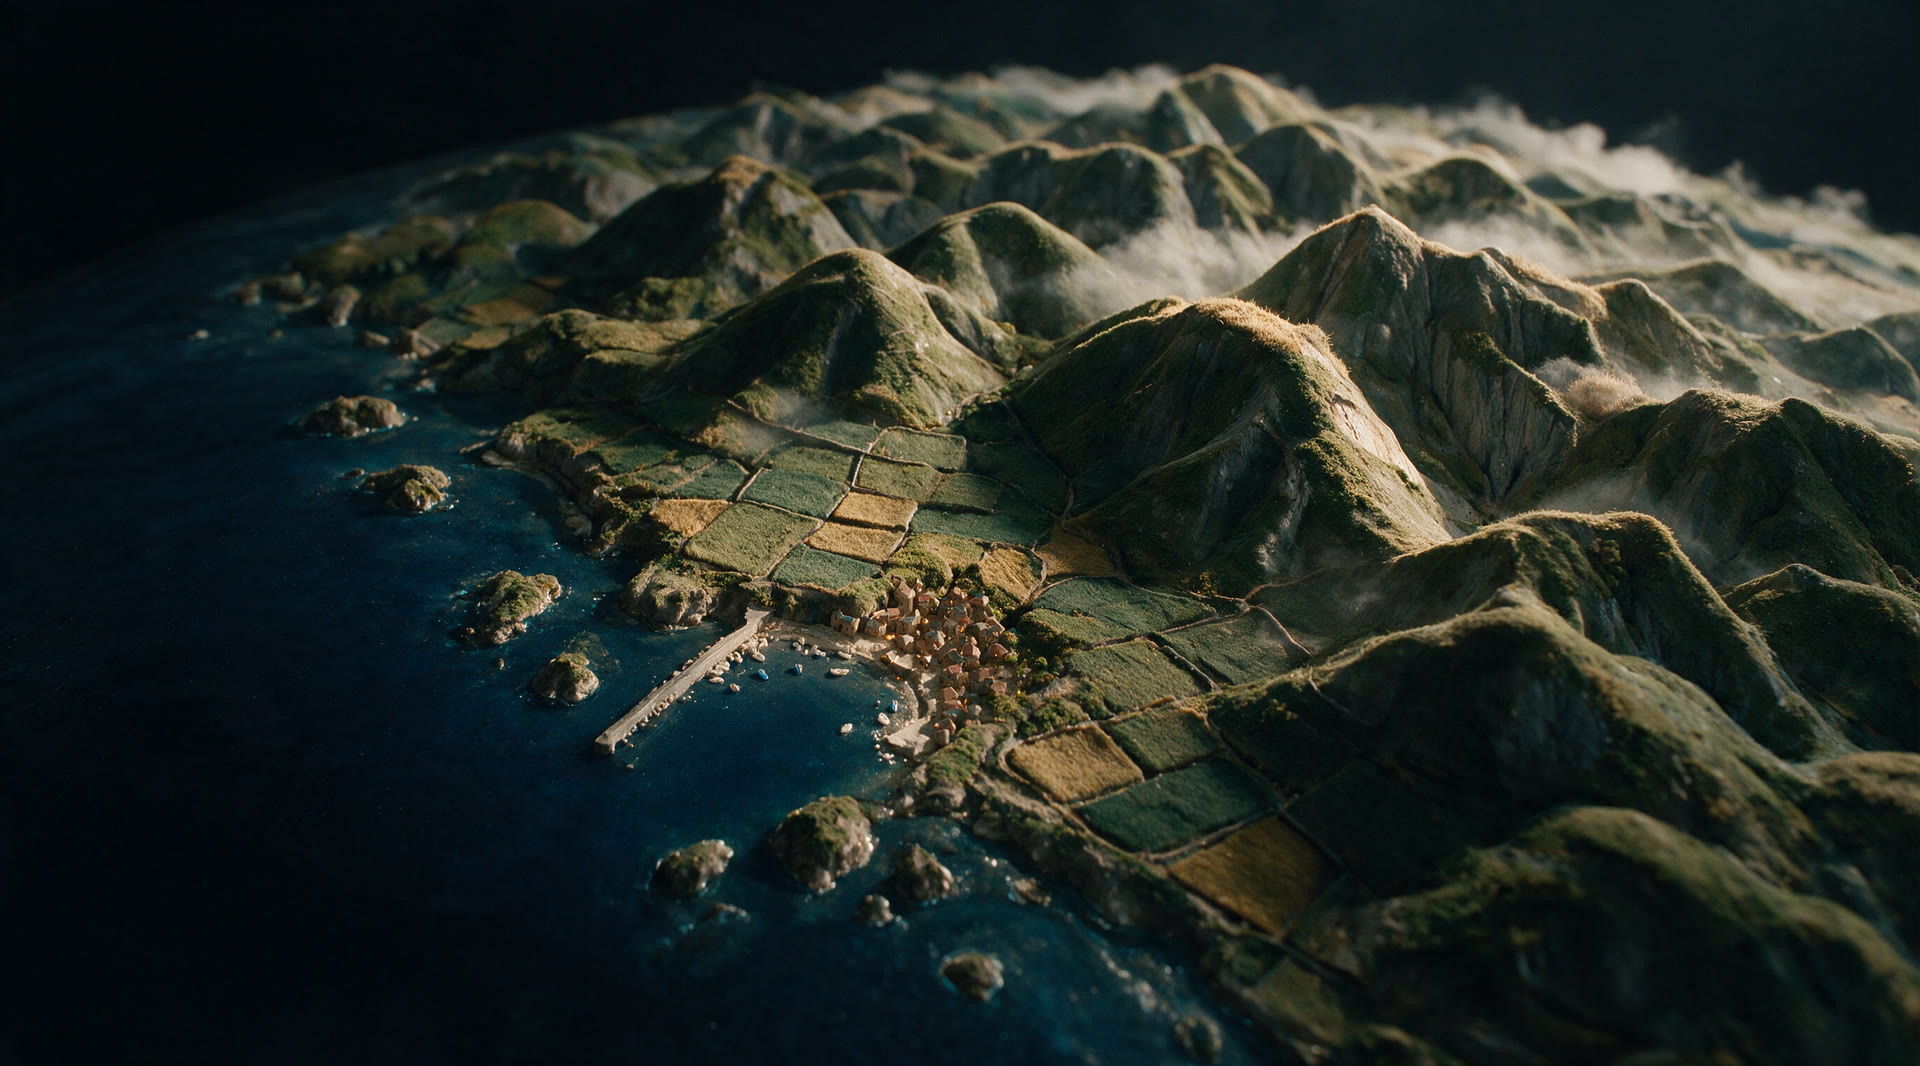
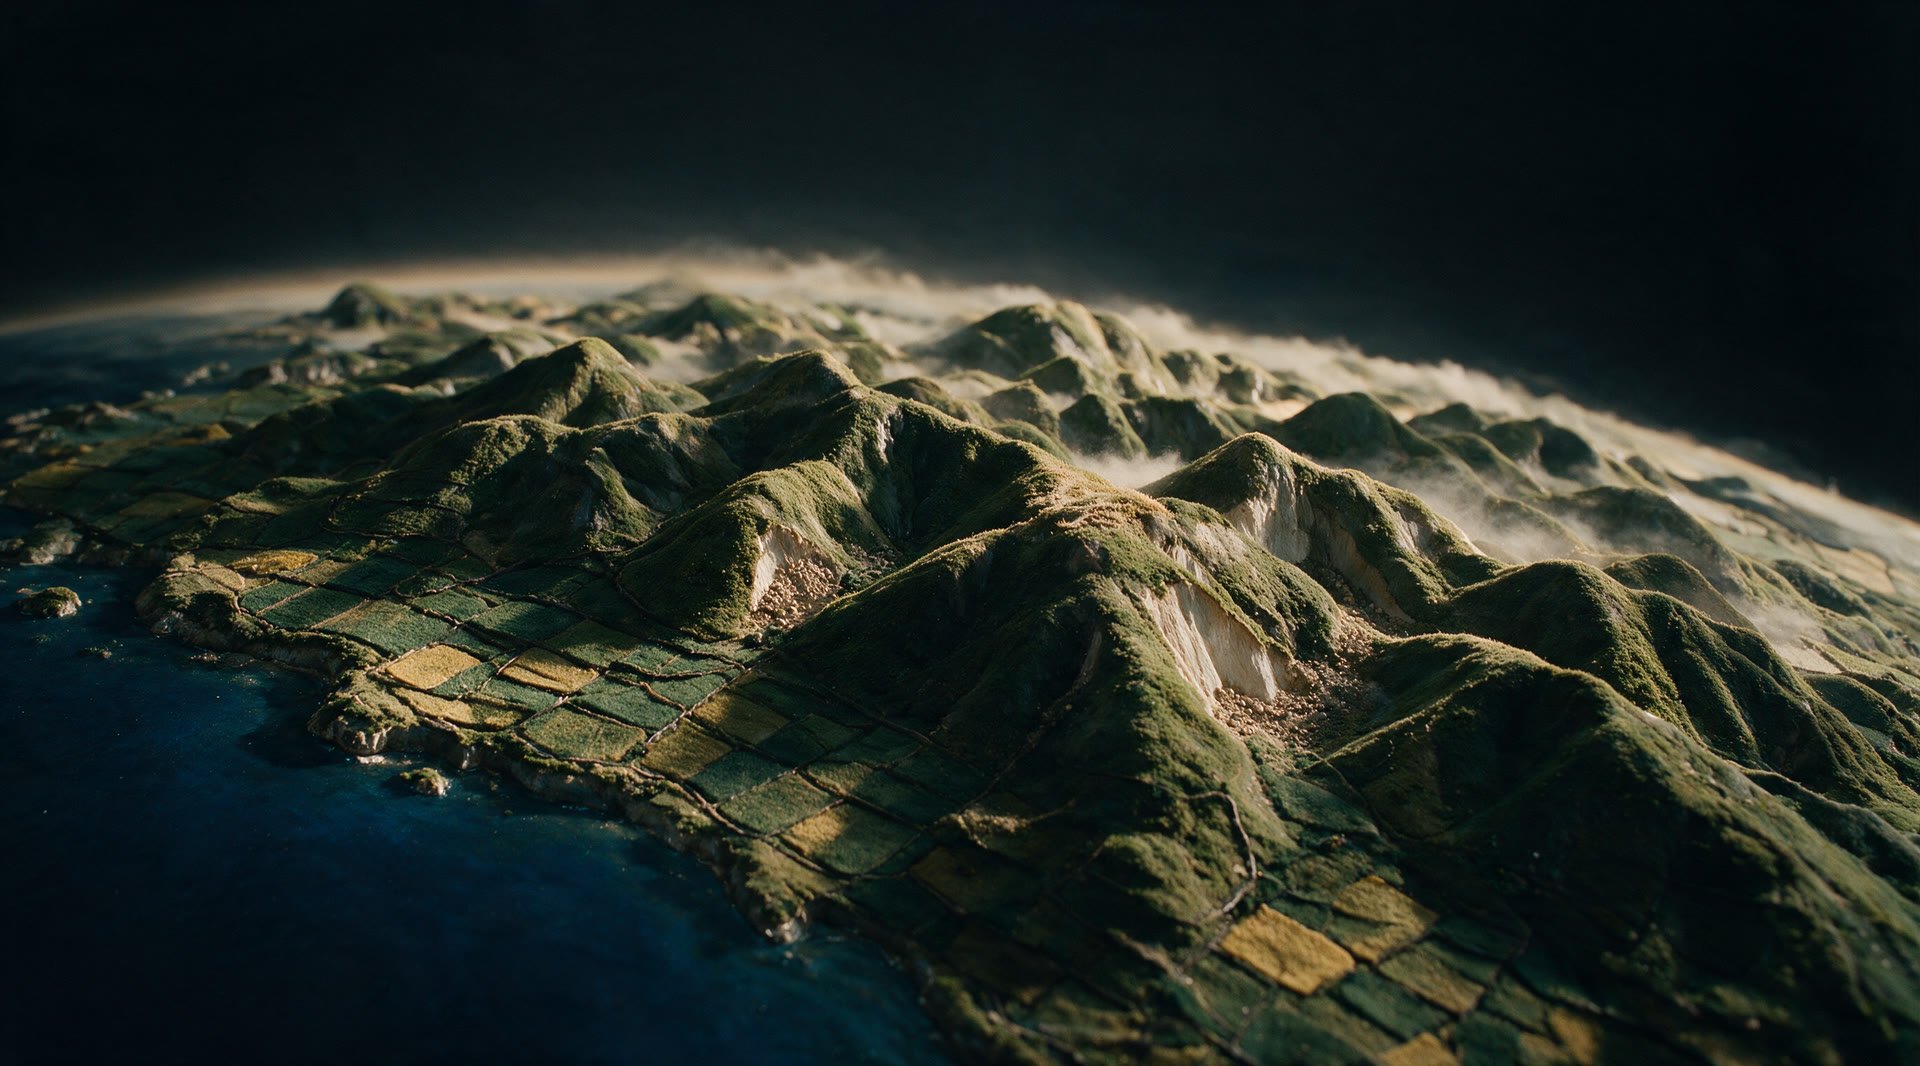
feat(kie): 앵커 rev.3h — A09 리롤, A08b 와 같은 지형을 북동 이동·하강 (마을·항만 제거, 1장, 14.5 크레딧)
클라이언트 "이동하는 과정에서 지형 지물이 너무 많이 바뀌는데. 지형 지물은 최대한 유지한채 산쪽으로 이동하면 좋을 것 같은데"
— 구 A09 가 다른 장소(자체 항만·마을)라 leg 8b 에서 모핑. 신 A09 = A08b 우상의 이끼 능선·펠트 필지가 프레임을
채우고 같은 해안선이 좌하로 이어지며, 급경사지 절개면으로 A10 과 연결. ref A08b + A09.v3a(재질). 구 A09 는 A09.v3a.*.

Claude-Session: https://claude.ai/code/session_01WM9MJXSpdbCfwY8af3obk9

diff --git a/landxi/proto/film/anchors.html b/landxi/proto/film/anchors.html
@@ -1,4 +1,4 @@
 <!doctype html><html lang="ko"><head><meta charset="utf-8"><title>앵커 스틸 v3</title>
 <link rel="stylesheet" href="../fonts-system.css"><style>body{margin:0;background:#010102;color:#ccc;font:14px/1.5 Pretendard,system-ui,sans-serif}h1{font-family:Paperlogy,Pretendard,sans-serif;font-weight:700;font-size:18px;letter-spacing:.06em;padding:20px 24px;margin:0;border-bottom:1px solid #272727}
 .g{display:grid;grid-template-columns:repeat(auto-fill,minmax(440px,1fr));gap:24px;padding:24px}figure{margin:0}img{width:100%;display:block;border:1px solid #272727}figcaption{padding:8px 2px;font-size:14px;color:#8a8a8a;letter-spacing:.04em}</style></head>
-<body><h1>앵커 스틸 · 14장</h1><div class="g"><figure><img src="../../assets/proto/film/legs/anchors-v3/A01.jpg" loading="lazy"><figcaption>A01 모형 지구본 — 작업대 직치, 링 상단 위성</figcaption></figure><figure><img src="../../assets/proto/film/legs/anchors-v3/A02.jpg" loading="lazy"><figcaption>A02 고궤도·한반도 — 지구본 + 구름만, 항공기 없음 (rev.3)</figcaption></figure><figure><img src="../../assets/proto/film/legs/anchors-v3/A03.jpg" loading="lazy"><figcaption>A03 구름 천장 — 드론 하단 1/3 공중 부양·소, 항공기 우상단 (rev.3c, 1회 재생성)</figcaption></figure><figure><img src="../../assets/proto/film/legs/anchors-v3/A04.jpg" loading="lazy"><figcaption>A04 능선 너머 남원 분지 — 소품 0 (rev.3)</figcaption></figure><figure><img src="../../assets/proto/film/legs/anchors-v3/A05.jpg" loading="lazy"><figcaption>A05 남원 평야·농지이용 — 프롭 0, 회색 판 제거 (rev.3d, 1회 리롤 · 좌측 도로 환각)</figcaption></figure><figure><img src="../../assets/proto/film/legs/anchors-v3/A06.jpg" loading="lazy"><figcaption>A06 금지면 비닐하우스 — 프롭 0, 구름·좌측 구조물 제거 (rev.3e, 1회 리롤)</figcaption></figure><figure><img src="../../assets/proto/film/legs/anchors-v3/A06b.jpg" loading="lazy"><figcaption>A06b 남원 상공 고고도 — 같은 온실 군락이 중앙-좌에 그대로, 카메라만 상승·곡률·헤이즈 (rev.3f, 1회 리롤)</figcaption></figure><figure><img src="../../assets/proto/film/legs/anchors-v3/A07.jpg" loading="lazy"><figcaption>A07 지구본 이동→여수 — 농지가 해안까지 완만히 내려와 마을과 같은 높이, 고원·절벽 없음 (rev.3e, 1회 리롤)</figcaption></figure><figure><img src="../../assets/proto/film/legs/anchors-v3/A08.jpg" loading="lazy"><figcaption>A08 여수 국동항·해양쓰레기 — 방파제 발치 해안선 클로즈업, 조간대 스티로폼·부표·그물 다량 (rev.3f, 1회 리롤)</figcaption></figure><figure><img src="../../assets/proto/film/legs/anchors-v3/A08b.jpg" loading="lazy"><figcaption>A08b 여수 상공 고고도 — 방파제·항만이 좌하 멀리, 코발트 바다 하단 절반, 곡률·헤이즈, 북동 원경에 영남 능선 시작 (rev.3g, 신규 1회)</figcaption></figure><figure><img src="../../assets/proto/film/legs/anchors-v3/A09.jpg" loading="lazy"><figcaption>A09 지구본 이동→울주</figcaption></figure><figure><img src="../../assets/proto/film/legs/anchors-v3/A10.jpg" loading="lazy"><figcaption>A10 산림식생·급경사지</figcaption></figure><figure><img src="../../assets/proto/film/legs/anchors-v3/A11.jpg" loading="lazy"><figcaption>A11 불법소각 — 산자락 소면적 공터, 연소 중</figcaption></figure><figure><img src="../../assets/proto/film/legs/anchors-v3/A12.jpg" loading="lazy"><figcaption>A12 국토 변화(데이터 관점) — 황동 격자·측정 셀 점등, 링·위성 복귀</figcaption></figure></div></body></html>
+<body><h1>앵커 스틸 · 14장</h1><div class="g"><figure><img src="../../assets/proto/film/legs/anchors-v3/A01.jpg" loading="lazy"><figcaption>A01 모형 지구본 — 작업대 직치, 링 상단 위성</figcaption></figure><figure><img src="../../assets/proto/film/legs/anchors-v3/A02.jpg" loading="lazy"><figcaption>A02 고궤도·한반도 — 지구본 + 구름만, 항공기 없음 (rev.3)</figcaption></figure><figure><img src="../../assets/proto/film/legs/anchors-v3/A03.jpg" loading="lazy"><figcaption>A03 구름 천장 — 드론 하단 1/3 공중 부양·소, 항공기 우상단 (rev.3c, 1회 재생성)</figcaption></figure><figure><img src="../../assets/proto/film/legs/anchors-v3/A04.jpg" loading="lazy"><figcaption>A04 능선 너머 남원 분지 — 소품 0 (rev.3)</figcaption></figure><figure><img src="../../assets/proto/film/legs/anchors-v3/A05.jpg" loading="lazy"><figcaption>A05 남원 평야·농지이용 — 프롭 0, 회색 판 제거 (rev.3d, 1회 리롤 · 좌측 도로 환각)</figcaption></figure><figure><img src="../../assets/proto/film/legs/anchors-v3/A06.jpg" loading="lazy"><figcaption>A06 금지면 비닐하우스 — 프롭 0, 구름·좌측 구조물 제거 (rev.3e, 1회 리롤)</figcaption></figure><figure><img src="../../assets/proto/film/legs/anchors-v3/A06b.jpg" loading="lazy"><figcaption>A06b 남원 상공 고고도 — 같은 온실 군락이 중앙-좌에 그대로, 카메라만 상승·곡률·헤이즈 (rev.3f, 1회 리롤)</figcaption></figure><figure><img src="../../assets/proto/film/legs/anchors-v3/A07.jpg" loading="lazy"><figcaption>A07 지구본 이동→여수 — 농지가 해안까지 완만히 내려와 마을과 같은 높이, 고원·절벽 없음 (rev.3e, 1회 리롤)</figcaption></figure><figure><img src="../../assets/proto/film/legs/anchors-v3/A08.jpg" loading="lazy"><figcaption>A08 여수 국동항·해양쓰레기 — 방파제 발치 해안선 클로즈업, 조간대 스티로폼·부표·그물 다량 (rev.3f, 1회 리롤)</figcaption></figure><figure><img src="../../assets/proto/film/legs/anchors-v3/A08b.jpg" loading="lazy"><figcaption>A08b 여수 상공 고고도 — 방파제·항만이 좌하 멀리, 코발트 바다 하단 절반, 곡률·헤이즈, 북동 원경에 영남 능선 시작 (rev.3g, 신규 1회)</figcaption></figure><figure><img src="../../assets/proto/film/legs/anchors-v3/A09.jpg" loading="lazy"><figcaption>A09 지구본 이동→울주 — A08b 와 같은 지형을 북동 이동·하강해 본 것, 같은 해안선 좌하로, 이끼 능선·펠트 필지가 프레임 채움, 급경사지 절개면, 마을·항만 없음 (rev.3h, 1회 리롤)</figcaption></figure><figure><img src="../../assets/proto/film/legs/anchors-v3/A10.jpg" loading="lazy"><figcaption>A10 산림식생·급경사지</figcaption></figure><figure><img src="../../assets/proto/film/legs/anchors-v3/A11.jpg" loading="lazy"><figcaption>A11 불법소각 — 산자락 소면적 공터, 연소 중</figcaption></figure><figure><img src="../../assets/proto/film/legs/anchors-v3/A12.jpg" loading="lazy"><figcaption>A12 국토 변화(데이터 관점) — 황동 격자·측정 셀 점등, 링·위성 복귀</figcaption></figure></div></body></html>

diff --git a/docs/superpowers/proto/2026-08-26-anchors-v3.md b/docs/superpowers/proto/2026-08-26-anchors-v3.md
@@ -1012,3 +1012,36 @@ A06b 는 손대지 않았다 (구름·구조물 없음, 구 A06 에서 파생됐
 - leg 8a (A08→A08b)·8b (A08b→A09) 영상은 클라이언트 승인 후 각 1회. `legs-v3.mjs` 가 앵커 배열 순서(14장)로 인접 쌍을 잡는지 확인.
 - A09 항만 위치 불일치는 leg 8b 영상 전 판단.
 - A05 좌측 도로(§9-3) 는 여전히 미결.
+
+## 13. 실행 기록 — 2026-08-27 rev.3h A09 리롤 (스틸 1장, 영상 0)
+
+클라이언트(verbatim, leg 8b A08b→A09): **"이동하는 과정에서 지형 지물이 너무 많이 바뀌는데. 지형 지물은 최대한 유지한채 산쪽으로 이동하면 좋을 것 같은데"** → 원인은 구 A09 가 **다른 장소**(자체 항만·마을·방파제, 다른 해안)라 kling 이 모핑한 것. 수정은 A09 를 **A08b 와 같은 지형**을 북동으로 이동·하강해 본 그림으로 1회 리롤. 규칙 동일 — 스틸 정확히 1회, 재시도 0, 상한 20, 영상 0.
+
+### 13-1. 변경 (`tools/kie/anchors-v3.json`)
+
+| 항목 | 내용 |
+|---|---|
+| A09 still_prompt | preamble 그대로. 장면 = "카메라가 같은 해안을 따라 북동으로 이동해 하강: A08b 지평선의 이끼 능선·계단식 펠트 필지가 이제 프레임을 채움(약 50°), 같은 해안선·헤드랜드가 좌하로 이어져 프레임 밖으로, 코발트 바다가 좌하로 물러남, 둥근 어깨 능선 겹겹, 급경사지 절개면(pale plaster scars)+그릿, 돌계단 몇 단, 가는 임도 1, 저지 헤이즈, 마을·항만·방파제·보트·건물 0, 프롭 0, 상단 개방". |
+| A09 negative | += village, harbour, breakwater, boats, buildings, houses, rooftops, plateau, wall, panel, backdrop |
+| A09 ref | 러너 자동 1순위 = 직전 앵커 **A08b.png**, 2순위 = `A09.v3a.png`(구 A09, 재질만). 구 A09 는 `A09.v3a.png/.jpg` 로 백업. |
+| A08b ref | 실제 사용된 파일로 표기 정정: `A09.png` → `A09.v3a.png` (프롬프트 무변경). |
+| 모션 | A08b→A09 그대로(§12-4 "북동 활강 + 완만 하강"). A09→A10 그대로. |
+
+### 13-2. 크레딧 (상한 20, `ANCHORS_V3_CAP=20`, 세션 `rev3h-2026-08-27`, 이전 원장 `anchors-v3-credits.rev3g.json`)
+
+| 앵커 | 잔액 전 → 후 | 과금 | ref | taskId | wall |
+|---|---|---:|---|---|---:|
+| A09 (리롤) | 9453.0 → 9438.5 | **14.5** | A08b + A09.v3a | 73e3dff6… | 157 s |
+
+호출 1회, 재시도 0, 잔액 차액 = 과금 14.5 정확히.
+
+### 13-3. 판정 (`shots/kie/anchors-v3h-sheet.jpg` — A08b | A09 구 | A09 신 | A10; 960w 사본 `landxi/assets/proto/review/A09-old.jpg`, `A09-new.jpg`)
+
+| 앵커 | 판정 | 근거 |
+|---|:-:|---|
+| A09 신 | **○** | **같은 지형** — A08b 우상의 이끼 능선(둥근 어깨, 톱니 없음)과 초록·황토 펠트 필지 패치워크가 그대로 프레임 중앙을 채우고, 해안은 A08b 처럼 이끼 헤드랜드·작은 섬으로 **좌하로 이어져 프레임 밖**으로 나가며 코발트 레진 바다(같은 색)가 좌하 구석으로 물러난다. 카메라는 A08b 보다 **명백히 낮고 가깝다**(50° 안팎), 곡률·헤이즈 띠·상단 암부·좌상 키 방향은 A08b 와 동일. **마을·항만·방파제·보트·건물 0** — 구 A09 의 항만·집 군락이 완전히 사라져 leg 8b 의 "자라 들어오는 마을" 모핑 원인이 제거됐다. 프롭 0. **A10 연속성** — 능선 어깨 아래 **급경사지 절개면**(창백한 플라스터 스카 + 그릿 부채꼴)이 중앙·중앙우에 2-3곳, A10 의 near-flank cut face 와 같은 어휘라 leg 9 (A09→A10) 하강 줌인이 자연스럽다. 유보 2: (1) 가는 임도(sand-coloured track)가 뚜렷하지 않음 — A09→A10 모션 문구 "thin track resolves" 는 영상에서 A10 쪽으로 나타나면 되므로 문제 아님. (2) 필지가 "계단식"이라기보다 완만한 저지 패치워크에 가깝고 돌계단은 미세 — 클라이언트 요구(지형 유지)와는 무관, 오히려 A08b 와의 일치도를 높인다. |
+
+### 13-4. 다음
+
+- leg 8b (A08b→A09) 영상은 신 A09 로 재생성 필요(클라이언트 승인 후 1회). leg 9 (A09→A10) 도 시작 프레임이 바뀌었으므로 재생성 대상.
+- A05 좌측 도로(§9-3) 는 여전히 미결.
